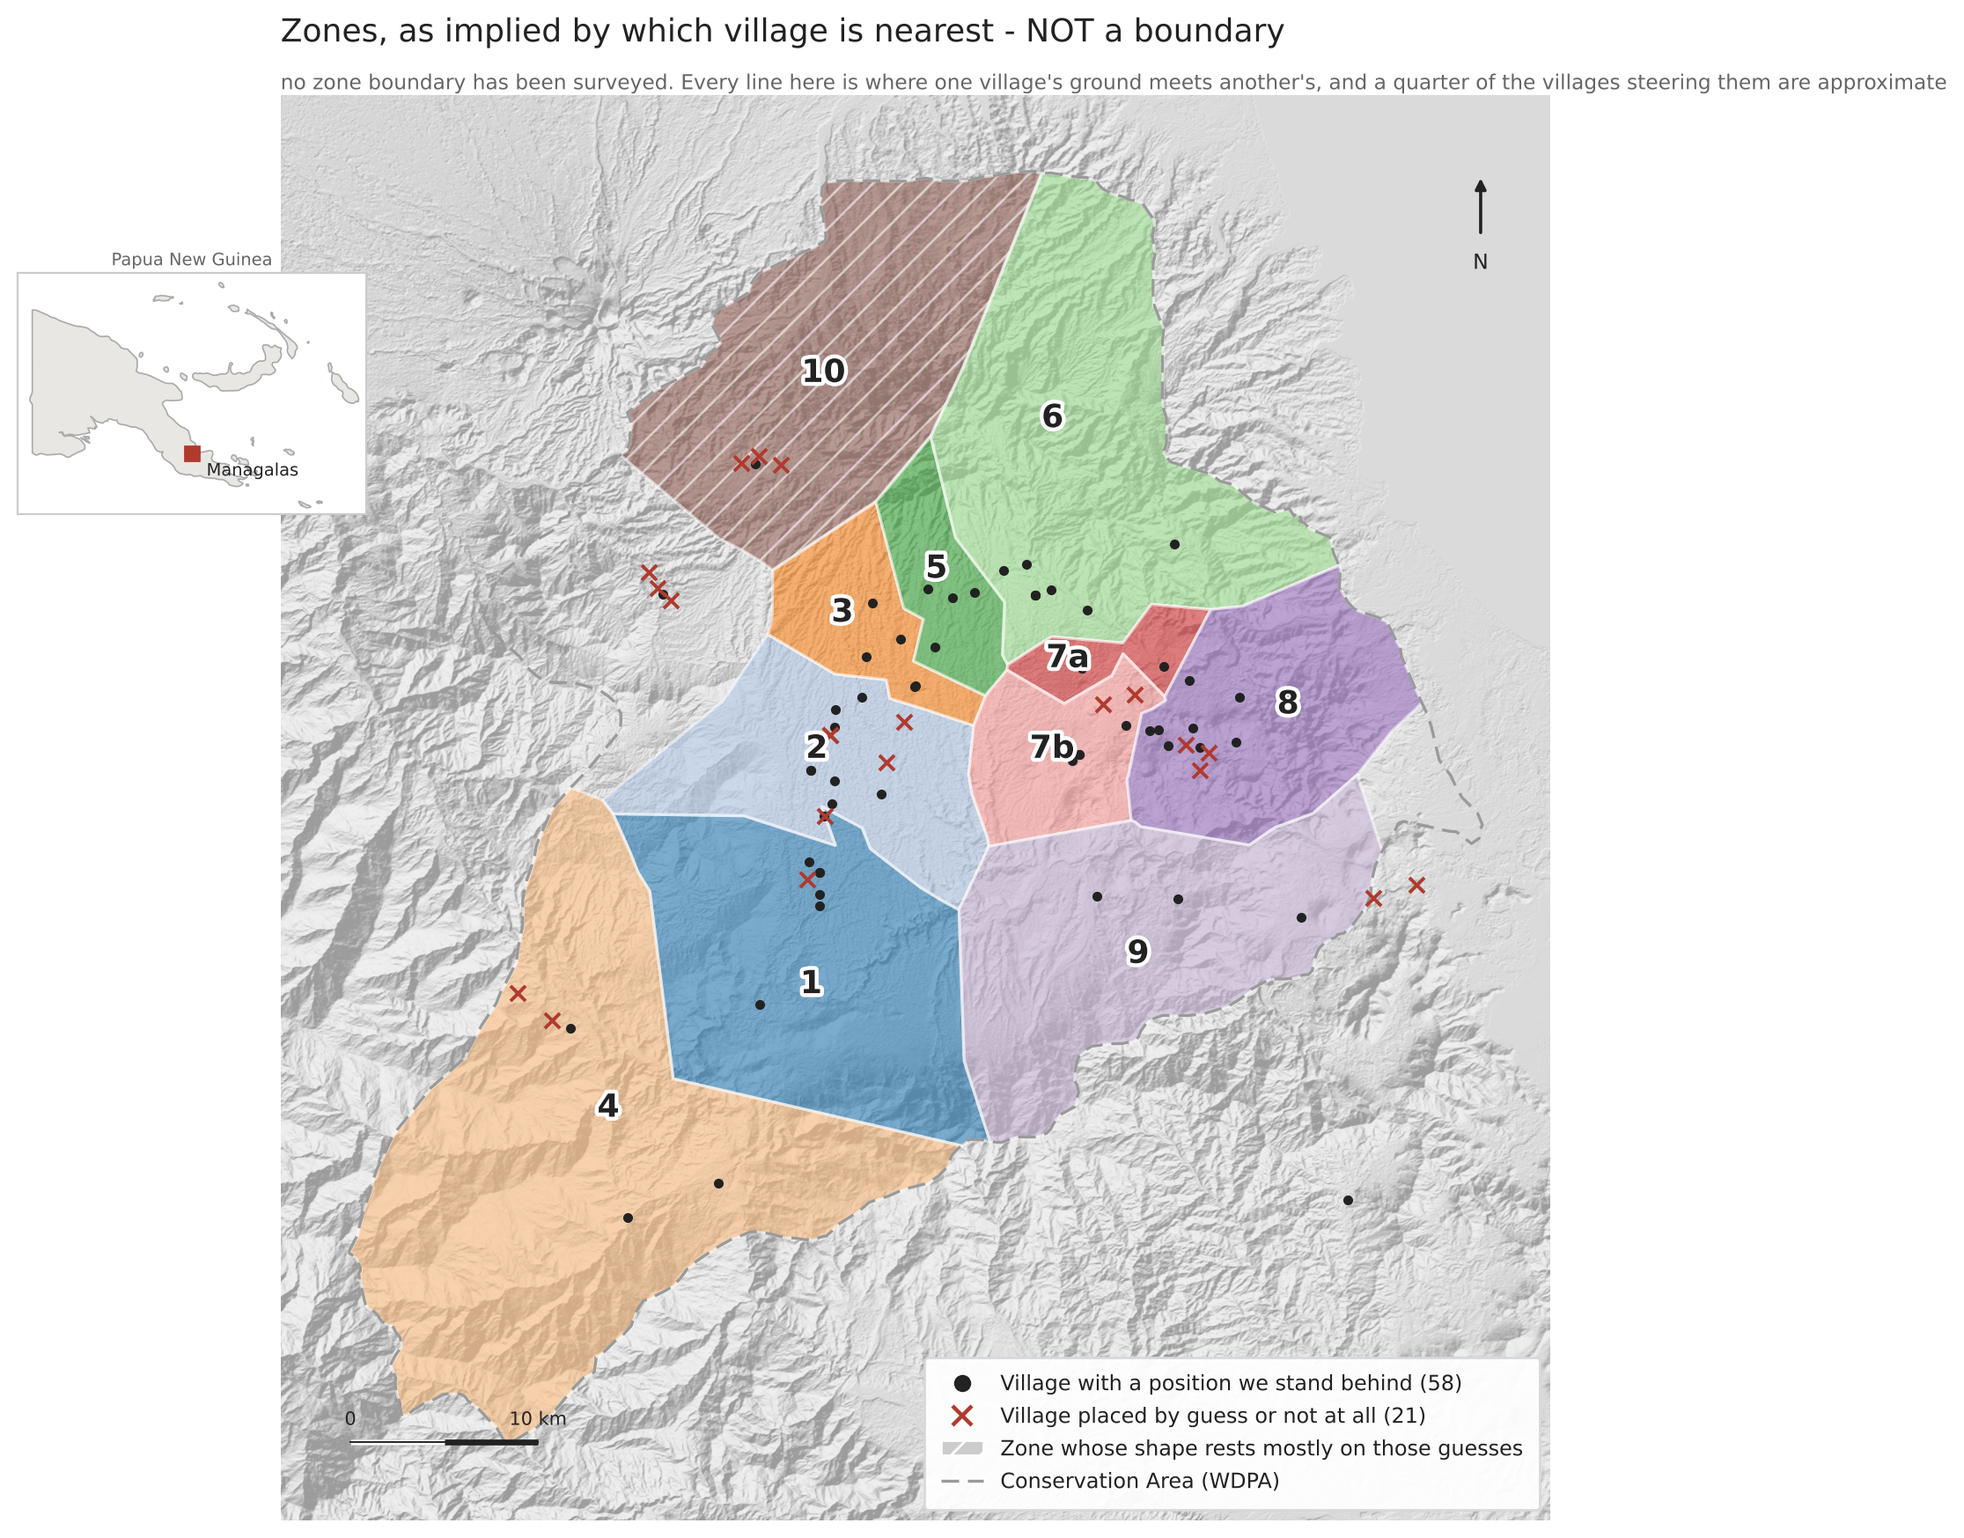
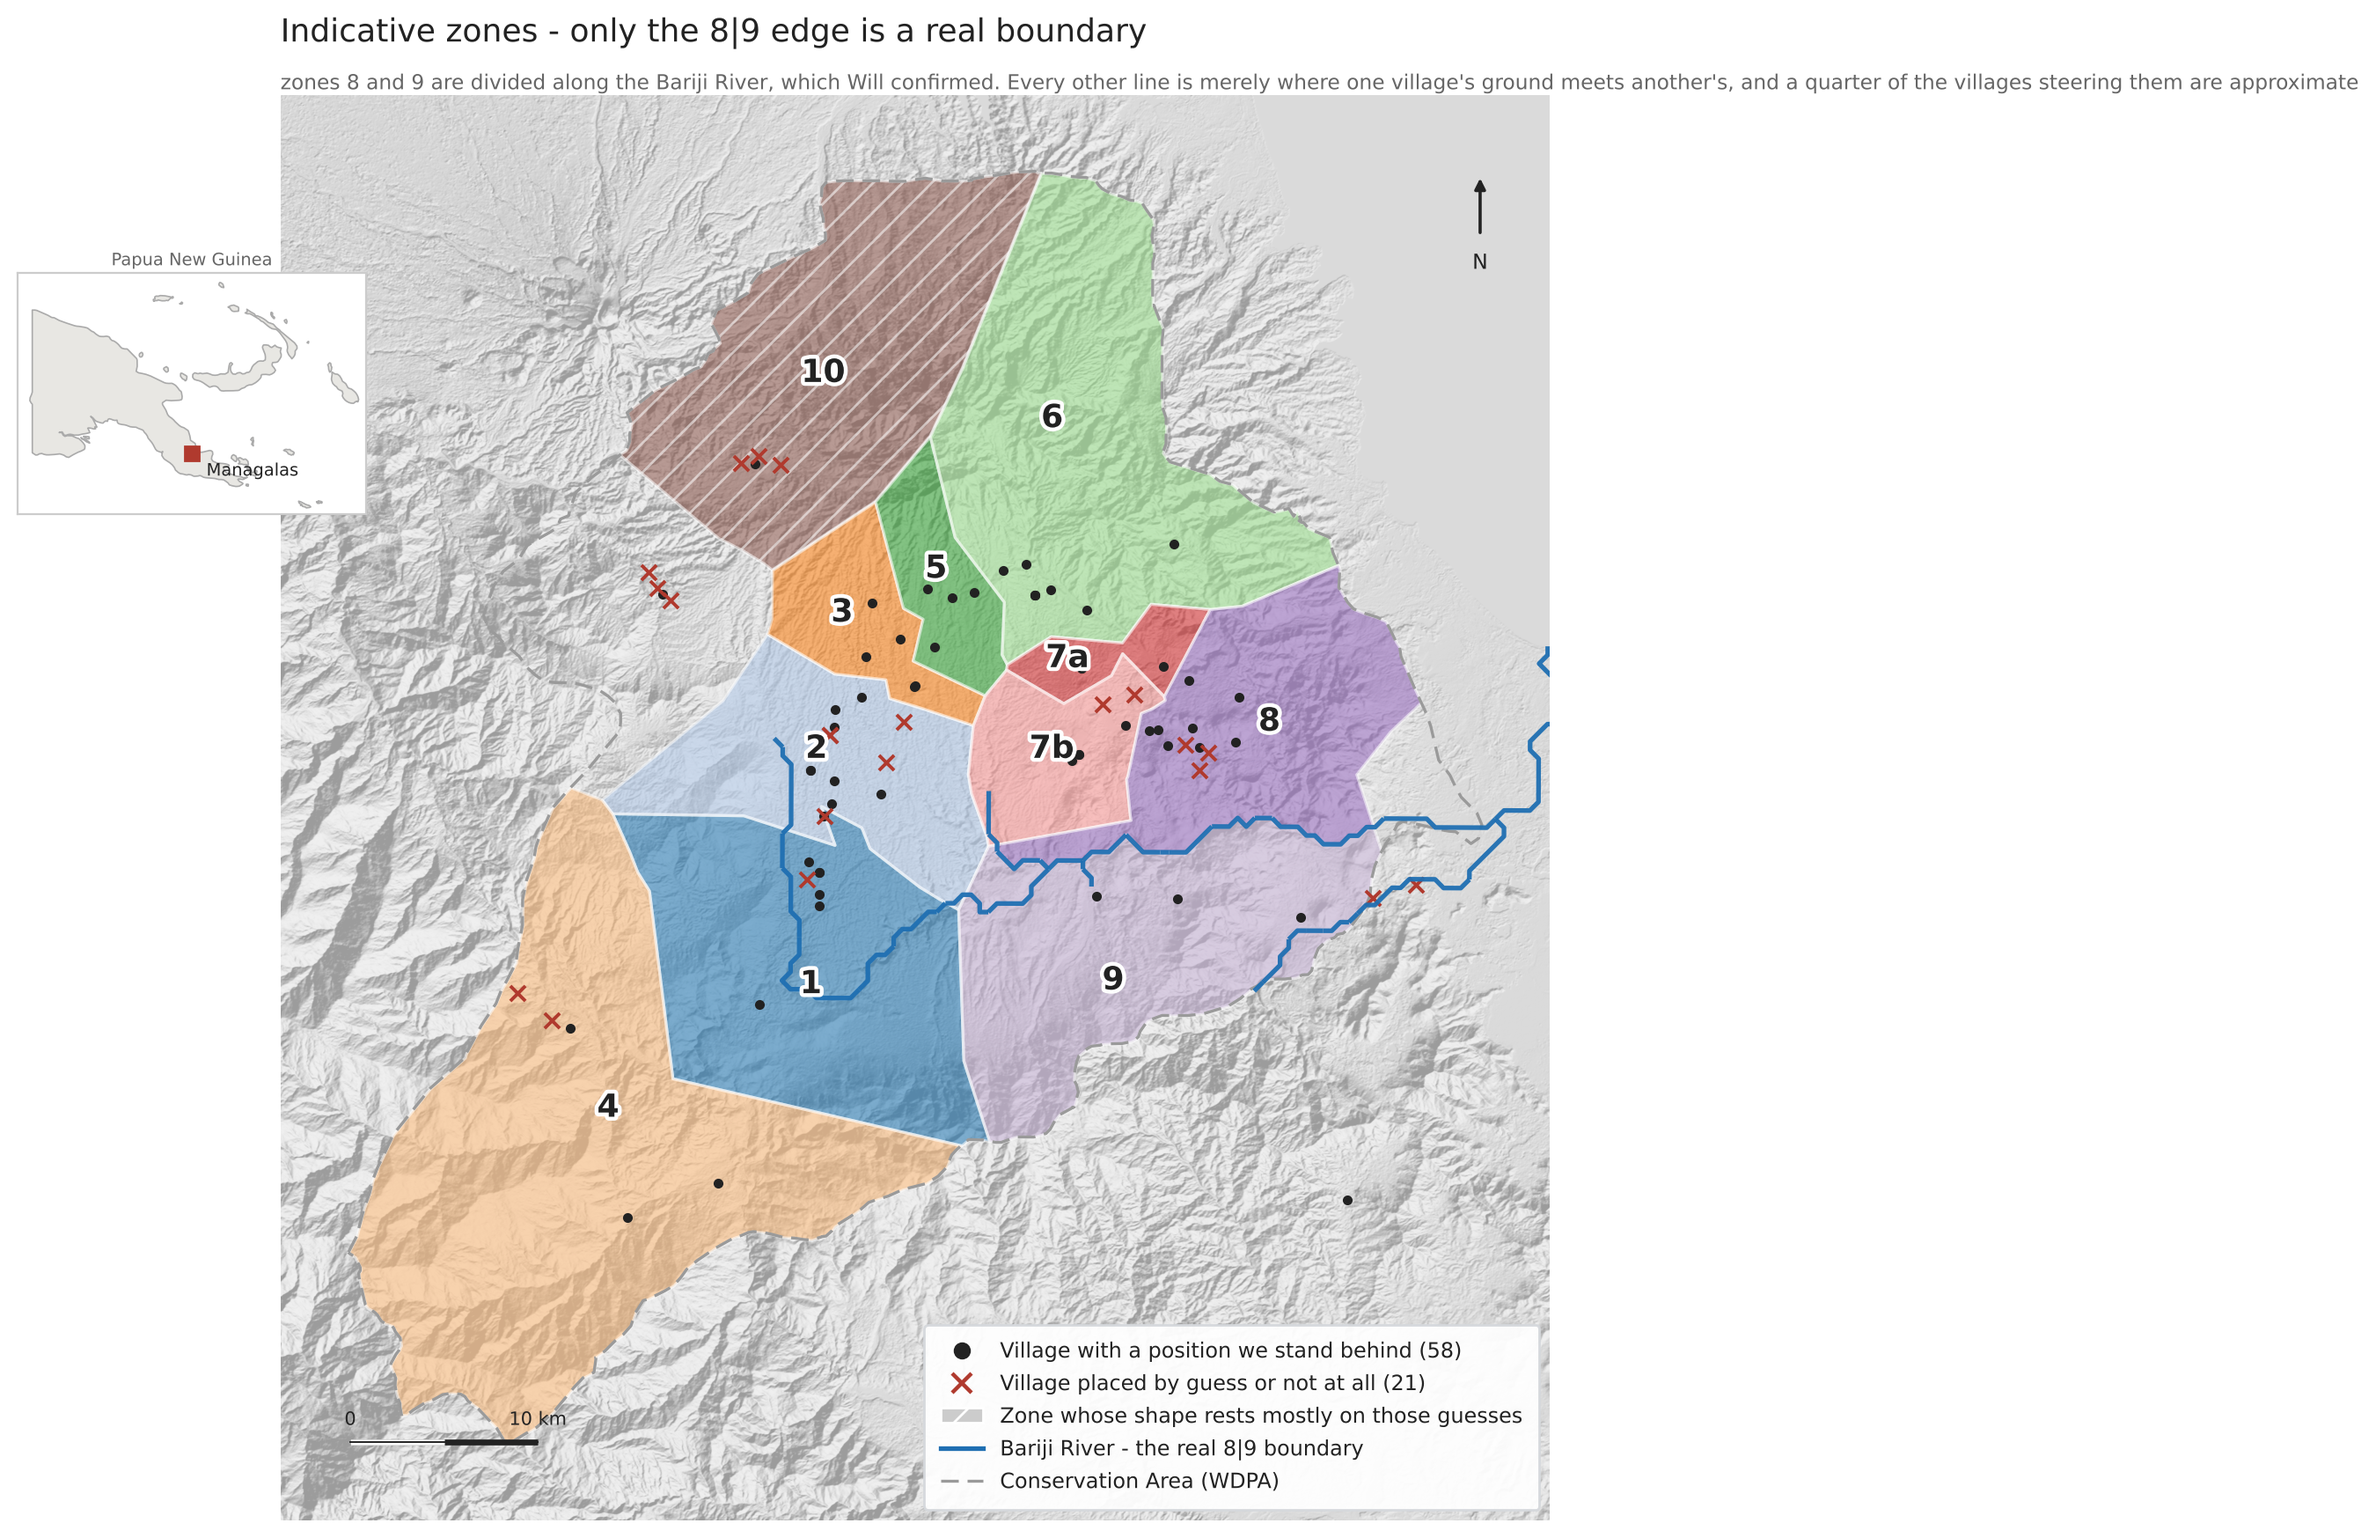
Re-cut zones 8 and 9 along the Bariji River
The 8|9 edge now sits ON the river: 24.5 km of shared boundary, zero distance
from the watercourse at every point sampled along it. It was previously
between 123 m and 2.8 km away, median 899 m.

Land moved accordingly - zone 8 from 147 to 165 km2, zone 9 from 236 to 218 -
and the plateau total is unchanged at 1,958 km2, so nothing was created or
lost, only reassigned across the pair. Both polygons are valid and do not
overlap.

The river branches, so it cannot simply cut the polygon in two. The shared
outline and the river are noded together and polygonized, which gave four
fragments, and each fragment went to whichever zone's villages sit in it. A
fragment holding no village would go to the nearer zone's villages; none did
here, so every piece was decided by a village rather than by proximity.

The figure now draws the river and the title says what is true: only the 8|9
edge is a real boundary. Everything else remains where one village's ground
meets another's.

Claude-Session: https://claude.ai/code/session_01MccBSyiqvhYzrwXhxPb7TF

diff --git a/scripts/make_zone_voronoi.py b/scripts/make_zone_voronoi.py
@@ -41,6 +41,7 @@ from ward_profile import load_profile, variants  # noqa: E402
 
 ROOT = Path(__file__).resolve().parent.parent
 BOUNDARY = ROOT / "data" / "processed" / "mca_boundary.gpkg"
+RIVER = ROOT / "data" / "reference" / "bariji_river.geojson"
 OUT_GJ = ROOT / "outputs" / "access" / "zones_voronoi.geojson"
 OUT_KML = ROOT / "outputs" / "access" / "zones_voronoi.kml"
 OUT_PNG = ROOT / "outputs" / "access" / "fig_zones_voronoi.png"
@@ -97,6 +98,64 @@ def village_points():
     return gpd.GeoDataFrame(recs, geometry="geometry", crs="EPSG:4326")
 
 
+def recut_8_9(zones, pts):
+    """Replace the 8|9 Voronoi line with the Bariji River.
+
+    Will, 23 Oct 2026: the boundary between zones 8 and 9 is the Bariji River.
+    The Voronoi guess was between 123 m and 2.8 km away from it and left 35 km
+    of the river inside zone 9 rather than along the edge, so this is a
+    correction rather than a tidy-up.
+
+    The river branches, so it cannot simply be used to cut the polygon in two.
+    Instead the shared outline and the river are noded together and
+    polygonized, which yields however many fragments the branching implies,
+    and each fragment is then given to whichever zone's villages actually sit
+    in it. A fragment with no village goes to the nearer zone's villages -
+    there is nothing better to go on, and saying so is better than pretending
+    the river closed neatly.
+    """
+    if not RIVER.exists() or not {"8", "9"} <= set(zones["zone"]):
+        print("  (8/9 not re-cut: river or zones missing)")
+        return zones
+
+    from shapely.ops import polygonize, unary_union
+
+    river = gpd.read_file(RIVER).to_crs(zones.crs)
+    z8 = zones.loc[zones["zone"] == "8", "geometry"].iloc[0]
+    z9 = zones.loc[zones["zone"] == "9", "geometry"].iloc[0]
+    both = unary_union([z8, z9])
+
+    lines = unary_union([both.boundary, unary_union(list(river.geometry))])
+    frags = [f for f in polygonize(lines) if f.representative_point().within(both)]
+    if len(frags) < 2:
+        print("  (8/9 not re-cut: the river does not divide the pair)")
+        return zones
+
+    v8 = pts[(pts["zone"] == "8")].geometry
+    v9 = pts[(pts["zone"] == "9")].geometry
+    out = {"8": [], "9": []}
+    for f in frags:
+        n8 = int(v8.within(f).sum())
+        n9 = int(v9.within(f).sum())
+        if n8 or n9:
+            out["8" if n8 >= n9 else "9"].append(f)
+        else:
+            d8 = v8.distance(f.representative_point()).min() if len(v8) else 1e12
+            d9 = v9.distance(f.representative_point()).min() if len(v9) else 1e12
+            out["8" if d8 <= d9 else "9"].append(f)
+
+    before = {"8": z8.area / 1e6, "9": z9.area / 1e6}
+    for z, parts in out.items():
+        if parts:
+            zones.loc[zones["zone"] == z, "geometry"] = unary_union(parts)
+    after = {z: zones.loc[zones["zone"] == z, "geometry"].iloc[0].area / 1e6
+             for z in ("8", "9")}
+    print(f"  re-cut 8|9 along the Bariji River from {len(frags)} fragments: "
+          f"zone 8 {before['8']:.0f} -> {after['8']:.0f} km2, "
+          f"zone 9 {before['9']:.0f} -> {after['9']:.0f} km2")
+    return zones
+
+
 def main():
     pts = village_points().to_crs(UTM)
     boundary = gpd.read_file(BOUNDARY).to_crs(UTM)
@@ -140,6 +199,8 @@ def main():
     # seeds - they have to, or the outer zones bulge - but keep no territory.
     zones = (cellgdf[cellgdf["zone"] != OUTSIDE]
              .dissolve(by="zone", aggfunc="first").reset_index())
+    # Before measuring anything: the 8|9 edge is a river, not a guess.
+    zones = recut_8_9(zones, pts)
     zones["area_km2"] = (zones.geometry.area / 1e6).round(1)
 
     # How much of each zone's area is steered by an approximate point.
@@ -199,6 +260,12 @@ def draw(zones, pts, boundary):
     boundary.boundary.plot(ax=ax, color=BOUNDARY_EDGE, lw=1.2,
                            linestyle=(0, (6, 3)), zorder=5)
 
+    # The one edge on this map that is a real feature rather than a guess.
+    river = None
+    if RIVER.exists():
+        river = gpd.read_file(RIVER).to_crs(zones.crs)
+        river.plot(ax=ax, color="#1F6FB2", lw=1.9, alpha=0.95, zorder=8)
+
     good = pts[pts["quality"].isin(["known", "field"])]
     weak = pts[pts["quality"].isin(["indicative", "none"])]
     good.plot(ax=ax, color=INK, markersize=9, zorder=6)
@@ -221,16 +288,19 @@ def draw(zones, pts, boundary):
                label=f"Village placed by guess or not at all ({len(weak)})"),
         Patch(facecolor="#CCCCCC", edgecolor="#FFFFFF", hatch="//",
               label="Zone whose shape rests mostly on those guesses"),
+        Line2D([], [], color="#1F6FB2", lw=1.9,
+               label="Bariji River - the real 8|9 boundary"),
         Line2D([], [], color=BOUNDARY_EDGE, lw=1.2, linestyle=(0, (6, 3)),
                label="Conservation Area (WDPA)"),
     ], loc="lower right", frameon=True, framealpha=0.95, fontsize=8.6,
         borderpad=0.8, labelspacing=0.55, edgecolor="#D5D8DC").set_zorder(10)
 
-    ax.set_title("Zones, as implied by which village is nearest - NOT a boundary",
+    ax.set_title("Indicative zones - only the 8|9 edge is a real boundary",
                  fontsize=13, color=INK, pad=12, loc="left")
-    ax.annotate("no zone boundary has been surveyed. Every line here is where "
-                "one village's ground meets another's, and a quarter of the "
-                "villages steering them are approximate",
+    ax.annotate("zones 8 and 9 are divided along the Bariji River, which Will "
+                "confirmed. Every other line is merely where one village's "
+                "ground meets another's, and a quarter of the villages "
+                "steering them are approximate",
                 xy=(0.0, 1.004), xycoords="axes fraction", fontsize=8.4,
                 color=INK_SOFT)
     north_arrow(ax); scalebar(ax); inset(fig, boundary)
